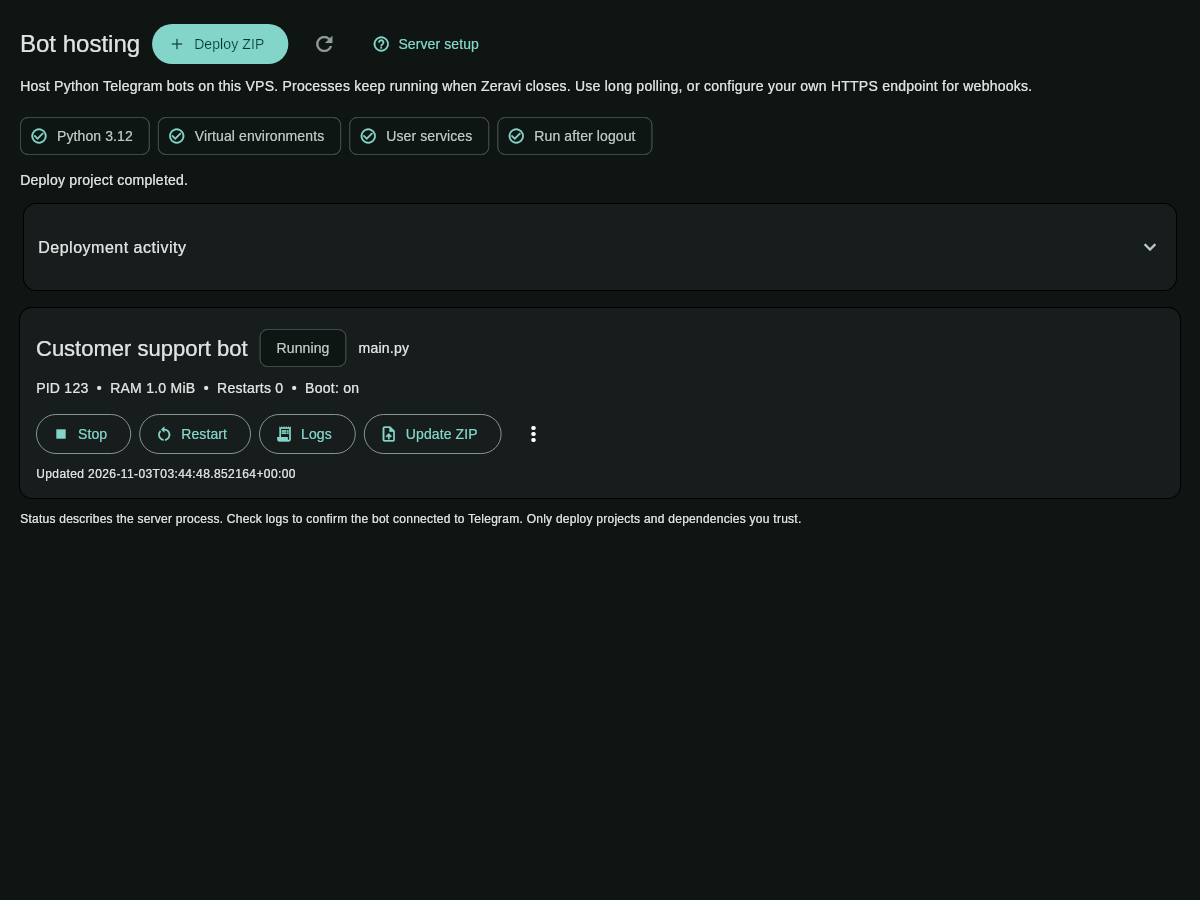
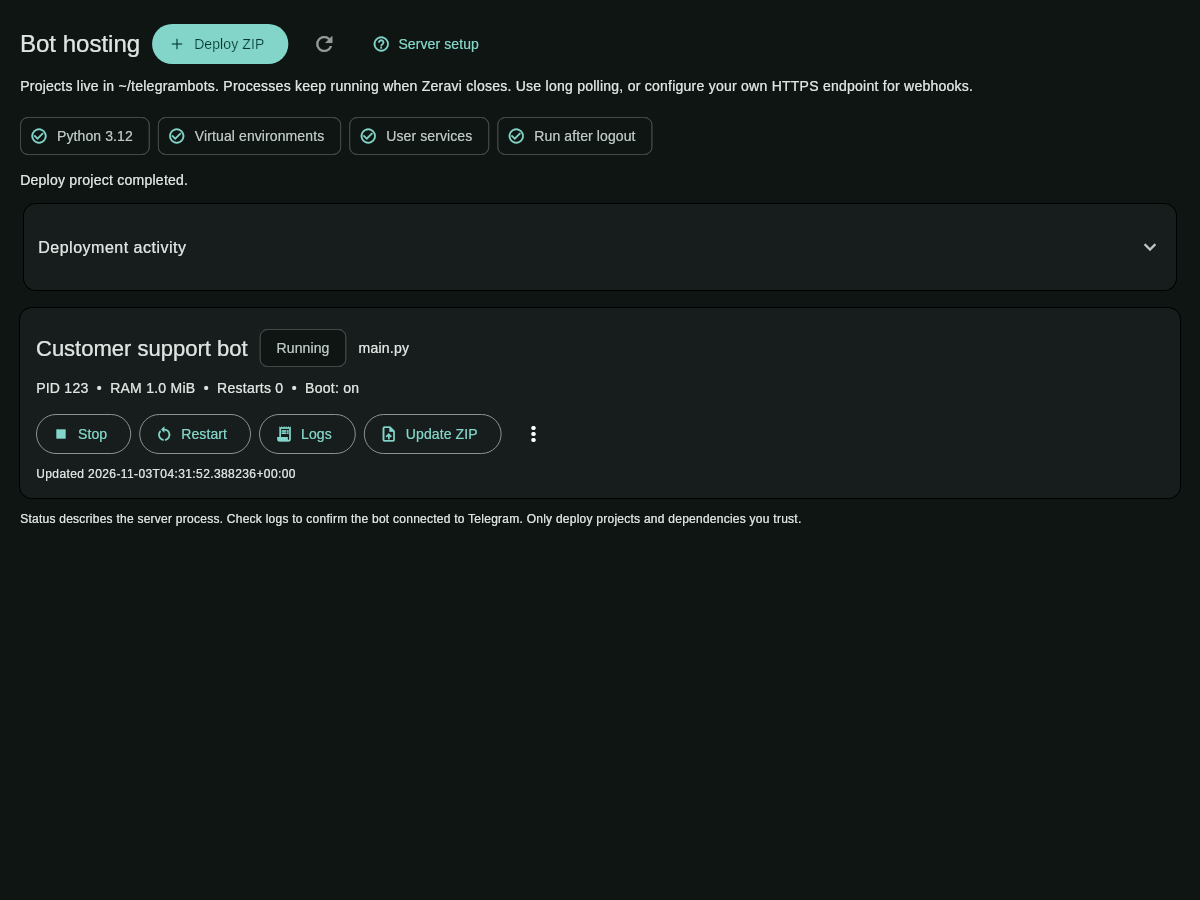
Move bot projects to visible telegrambots directory
Migrate existing deployments with compatibility links that preserve service, virtual environment, and data paths. Add Open project in Files, migration coverage, updated documentation and screenshot, and bump Zeravi to 0.2.1.

Changed region(s): [[0.0308, 0.0933, 0.8633, 0.1244], [0.1542, 0.4978, 0.2158, 0.5289]]

diff --git a/lib/ui/bot_hosting_panel.dart b/lib/ui/bot_hosting_panel.dart
@@ -13,9 +13,11 @@ class BotHostingPanel extends StatefulWidget {
     super.key,
     required this.controller,
     required this.onOpenTerminal,
+    this.onOpenFiles,
   });
   final BotHostingController controller;
   final ValueChanged<String?> onOpenTerminal;
+  final ValueChanged<String>? onOpenFiles;
   @override
   State<BotHostingPanel> createState() => _BotHostingPanelState();
 }
@@ -231,7 +233,7 @@ class _BotHostingPanelState extends State<BotHostingPanel> {
         ),
         const SizedBox(height: 8),
         const Text(
-          'Host Python Telegram bots on this VPS. Processes keep running when Zeravi closes. Use long polling, or configure your own HTTPS endpoint for webhooks.',
+          'Projects live in ~/telegrambots. Processes keep running when Zeravi closes. Use long polling, or configure your own HTTPS endpoint for webhooks.',
         ),
         const SizedBox(height: 16),
         if (host.refreshing) const LinearProgressIndicator(),
@@ -409,6 +411,8 @@ class _BotHostingPanelState extends State<BotHostingPanel> {
                     switch (value) {
                       case 'settings':
                         configure(bot);
+                      case 'files':
+                        widget.onOpenFiles?.call(bot.path);
                       case 'terminal':
                         widget.onOpenTerminal(bot.path);
                       case 'copy':
@@ -425,6 +429,11 @@ class _BotHostingPanelState extends State<BotHostingPanel> {
                       value: 'settings',
                       child: Text('Settings & environment'),
                     ),
+                    if (widget.onOpenFiles != null)
+                      const PopupMenuItem(
+                        value: 'files',
+                        child: Text('Open project in Files'),
+                      ),
                     const PopupMenuItem(
                       value: 'terminal',
                       child: Text('Open project in terminal'),

diff --git a/tool/bot_hosting_preview_test.dart b/tool/bot_hosting_preview_test.dart
@@ -81,6 +81,7 @@ void main() {
         tester.view.physicalSize = const Size(1200, 900);
         tester.view.devicePixelRatio = 1;
         final boundaryKey = GlobalKey();
+        String? openedProject;
         await tester.pumpWidget(
           RepaintBoundary(
             key: boundaryKey,
@@ -93,7 +94,11 @@ void main() {
                 useMaterial3: true,
               ),
               home: Scaffold(
-                body: BotHostingPanel(controller: host, onOpenTerminal: (_) {}),
+                body: BotHostingPanel(
+                  controller: host,
+                  onOpenFiles: (path) => openedProject = path,
+                  onOpenTerminal: (_) {},
+                ),
               ),
             ),
           ),
@@ -137,6 +142,14 @@ void main() {
         await tester.tap(find.text('Close'));
         await tick();
         await tick();
+        await tester.tap(find.byTooltip('Manage Customer support bot'));
+        await tick();
+        await tick();
+        await tester.tap(find.text('Open project in Files'));
+        await tick();
+        await tick();
+        expect(openedProject, contains('/telegrambots/'));
+        expect(openedProject, endsWith('/current/app'));
         await tester.tap(find.byTooltip('Manage Customer support bot'));
         await tick();
         await tick();

diff --git a/lib/ui/workspace.dart b/lib/ui/workspace.dart
@@ -1497,6 +1497,10 @@ class _WorkspaceState extends State<Workspace> {
       if (workspaceView == 'bots' && hosting != null) {
         return BotHostingPanel(
           controller: hosting!,
+          onOpenFiles: (directory) {
+            setState(() => workspaceView = 'files');
+            unawaited(loadDirectory(directory));
+          },
           onOpenTerminal: (directory) =>
               openFolderTerminal(directory ?? homePath ?? path),
         );

diff --git a/assets/hosting/manager.py b/assets/hosting/manager.py
@@ -165,7 +165,8 @@ def extract_project(archive_path, destination, project_root, entrypoint):
 class HostingManager:
     def __init__(self, home=None, runner=None, event=None):
         self.home = Path(home or Path.home()).resolve()
-        self.base = self.home / '.local/share/zeravi/bots'
+        self.base = self.home / 'telegrambots'
+        self.legacy_base = self.home / '.local/share/zeravi/bots'
         self.units = self.home / '.config/systemd/user'
         self.runner = runner
         self.event = event or (lambda kind, **data: None)
@@ -264,6 +265,53 @@ class HostingManager:
             except BlockingIOError:
                 raise HostingError('Another bot operation is running. Wait for it to finish.')
             yield
+        finally:
+            os.close(fd)
+
+    def prepare_storage(self):
+        # Keep old absolute venv shebangs, data links and service paths working.
+        # Projects move physically; private compatibility links stay at old paths.
+        if self.base.is_symlink():
+            raise HostingError('The telegrambots directory must not be a symbolic link.')
+        self.base.mkdir(parents=True, exist_ok=True, mode=0o700)
+        legacy = self.legacy_base
+        if legacy.is_symlink():
+            if legacy.resolve() == self.base.resolve():
+                return
+            raise HostingError('The old bot storage is a symbolic link. Move it manually before continuing.')
+        if not legacy.exists():
+            return
+        fd = os.open(legacy / '.lock', os.O_RDWR | os.O_CREAT | os.O_NOFOLLOW, 0o600)
+        try:
+            try:
+                fcntl.flock(fd, fcntl.LOCK_EX | fcntl.LOCK_NB)
+            except BlockingIOError:
+                raise HostingError('An older bot operation is running. Wait for it to finish, then refresh.')
+            with self.lock():
+                pending = []
+                for source in sorted(legacy.iterdir()):
+                    if source.name == '.lock':
+                        continue
+                    target = self.base / source.name
+                    if source.is_symlink() and source.readlink() == target and not target.is_symlink():
+                        if not target.exists():
+                            source.unlink()  # Clean compatibility links after removal.
+                            continue
+                        if target.is_dir():
+                            continue
+                    if source.is_symlink() or not source.is_dir() or not (ID.fullmatch(source.name) or source.name == '_archives'):
+                        raise HostingError('Unexpected files in the old bot directory; move them aside before migration.')
+                    if target.exists() or target.is_symlink():
+                        raise HostingError('Cannot migrate ' + source.name + ': that name already exists in ~/telegrambots. No files were overwritten.')
+                    pending.append((source, target))
+                for source, target in pending:
+                    source.rename(target)
+                    try:
+                        source.symlink_to(target, target_is_directory=True)
+                    except BaseException:
+                        target.rename(source)
+                        raise
+                    self.event('progress', message='Moved ' + source.name + ' into ~/telegrambots')
         finally:
             os.close(fd)
 
@@ -647,6 +695,7 @@ WantedBy=default.target
         return dict(removed=True, archive=archive)
 
     def handle(self, request):
+        self.prepare_storage()
         action = request.get('action')
         if action == 'list':
             return self.listing()

diff --git a/test/test_bot_hosting.py b/test/test_bot_hosting.py
@@ -34,6 +34,61 @@ class HostingTests(unittest.TestCase):
             request['id'] = bot['id']
         return self.manager.handle(request)
 
+    def legacy_bot(self):
+        legacy = manager(self.home, self.runner)
+        legacy.base = self.home / '.local/share/zeravi/bots'
+        legacy.legacy_base = self.home / 'unused-legacy-directory'
+        bot = legacy.handle(dict(action='deploy', zipPath=str(self.upload()), projectRoot='project', name='Existing bot'))
+        return legacy, bot
+
+    def test_new_projects_live_in_visible_home_folder(self):
+        bot = self.deploy()
+        self.assertEqual(self.manager.base, self.home / 'telegrambots')
+        self.assertTrue((self.home / 'telegrambots' / bot['id'] / 'current/app/main.py').is_file())
+
+    def test_migration_preserves_running_service_data_and_absolute_paths(self):
+        legacy, bot = self.legacy_bot()
+        old_root = legacy.bot_root(bot['id'])
+        unit = legacy.owned_unit(bot['id'])
+        old_unit = unit.read_text()
+        (old_root / 'current/app/data/seed.txt').write_text('edited data')
+        self.runner.calls.clear()
+        listing = self.manager.handle(dict(action='list'))
+        root = self.manager.bot_root(bot['id'])
+        self.assertEqual(listing['bots'][0]['path'], str(root / 'current/app'))
+        self.assertEqual(root.parent, self.home / 'telegrambots')
+        self.assertTrue(old_root.is_symlink())
+        self.assertTrue((old_root / 'current/venv/bin/python').is_file())
+        self.assertEqual((root / 'current/app/data/seed.txt').read_text(), 'edited data')
+        self.assertEqual(unit.read_text(), old_unit)
+        self.assertFalse(any(args[:3] == ['systemctl', '--user', 'stop'] for args, _ in self.runner.calls))
+        self.manager.handle(dict(action='list'))  # Idempotent on each refresh.
+        self.manager.handle(dict(action='configure', id=bot['id']))
+        self.assertIn(str(root / 'current/app'), unit.read_text())
+        archived = self.manager.handle(dict(action='remove', id=bot['id']))
+        self.assertTrue((Path(archived['archive']) / 'shared/data/seed.txt').is_file())
+        self.assertEqual(self.manager.handle(dict(action='list'))['bots'], [])
+        self.assertFalse(old_root.is_symlink())
+
+    def test_migration_never_overwrites_a_destination_folder(self):
+        legacy, bot = self.legacy_bot()
+        target = self.manager.base / bot['id']
+        target.mkdir(parents=True)
+        (target / 'personal.txt').write_text('keep this')
+        with self.assertRaisesRegex(hosting.HostingError, 'already exists'):
+            self.manager.handle(dict(action='list'))
+        self.assertEqual((target / 'personal.txt').read_text(), 'keep this')
+        self.assertTrue((legacy.base / bot['id'] / 'current/app/main.py').is_file())
+        self.assertFalse((legacy.base / bot['id']).is_symlink())
+
+    def test_migration_waits_for_existing_operations(self):
+        legacy, bot = self.legacy_bot()
+        with legacy.lock():
+            with self.assertRaisesRegex(hosting.HostingError, 'older bot operation'):
+                self.manager.handle(dict(action='list'))
+        self.assertFalse((legacy.base / bot['id']).is_symlink())
+        self.assertEqual(self.manager.handle(dict(action='list'))['bots'][0]['id'], bot['id'])
+
     def test_lifecycle_update_rollback_and_archive_preserve_data(self):
         first = self.deploy()
         self.assertEqual(first['state'], 'active')

diff --git a/docs/BOT_HOSTING.md b/docs/BOT_HOSTING.md
@@ -65,6 +65,11 @@ is shown as failed/restarting; inspect its logs and use rollback if needed.
 
 ## Manage bots
 
+Use **Open project in Files** in a bot’s menu to browse/edit its current code,
+or open `~/telegrambots/<id>/current/app` through SFTP. Stop the bot before manual
+changes and restart afterward; ZIP updates replace code, so keep your source ZIP
+in sync.
+
 Each card shows process state, PID, current RAM, automatic restart count, boot
 setting, and the last deployment time. Status refreshes every eight seconds
 while Bots is visible.
@@ -96,7 +101,7 @@ multiple polling processes with the same token.
 All bots belong to the connected SSH user:
 
 ```text
-~/.local/share/zeravi/bots/<id>/
+~/telegrambots/<id>/
   manifest.json
   config.json             # private runtime settings, including environment values
   environment             # private systemd EnvironmentFile
@@ -159,3 +164,15 @@ flutter test tool/bot_hosting_preview_test.dart tool/workspace_preview_test.dart
 The fixture uses real loopback SSH/SFTP and the production hosting manager with
 simulated OS commands. It never installs bot dependencies or changes real user
 services. Production deployments still require validation on your target VPS.
+
+## Upgrading from the previous storage location
+
+On the first hosting request, existing bot directories are moved from
+`~/.local/share/zeravi/bots` into `~/telegrambots`. Compatibility links remain at
+the old paths so running services, existing virtual environments and persistent
+data links continue working without a restart. Do not remove these links while
+old releases are retained. Newly generated service settings use the new path.
+
+Migration waits for previous hosting operations and never overwrites destination
+folders. If a bot ID already exists in the new location, move the conflicting
+folder aside and refresh. Removed bots are archived in `~/telegrambots/_archives`.

diff --git a/README.md b/README.md
@@ -58,7 +58,8 @@ Passwords and key passphrases are requested when connecting and are not saved.
 Connect to a VPS, open **Bots**, then **Deploy ZIP**. Include `requirements.txt`
 and a Python entry point such as `main.py`. Configure your token as an environment
 variable, choose persistent data folders, and deploy. Start, stop, restart, update,
-inspect logs, edit settings, or roll back from the bot card.
+inspect logs, edit settings, or roll back from the bot card. Projects are stored
+in `~/telegrambots` on the VPS; **Open project in Files** takes you to editable code.
 
 The VPS needs Python virtual environments, systemd user services and linger.
 **Server setup** checks readiness and shows the one-time setup commands.

diff --git a/docs/PACKAGING.md b/docs/PACKAGING.md
@@ -13,7 +13,7 @@ python3 tool/build_deb.py
 ```
 
 This runs the Flutter release build and writes the package and SHA256 checksum
-to `build/packages/`. Version `0.2.0+1` becomes Debian version `0.2.0-1`.
+to `build/packages/`. Version `0.2.1+1` becomes Debian version `0.2.1-1`.
 
 To package a release bundle that has already been built and checked:
 
@@ -34,7 +34,7 @@ an older target distribution rather than weakening those requirements by hand.
 For the amd64 preview package:
 
 ```sh
-sudo apt install ./build/packages/zeravi_0.2.0-1_amd64.deb
+sudo apt install ./build/packages/zeravi_0.2.1-1_amd64.deb
 ```
 
 Search the applications menu for **Zeravi**, or run `zeravi` from a terminal.
